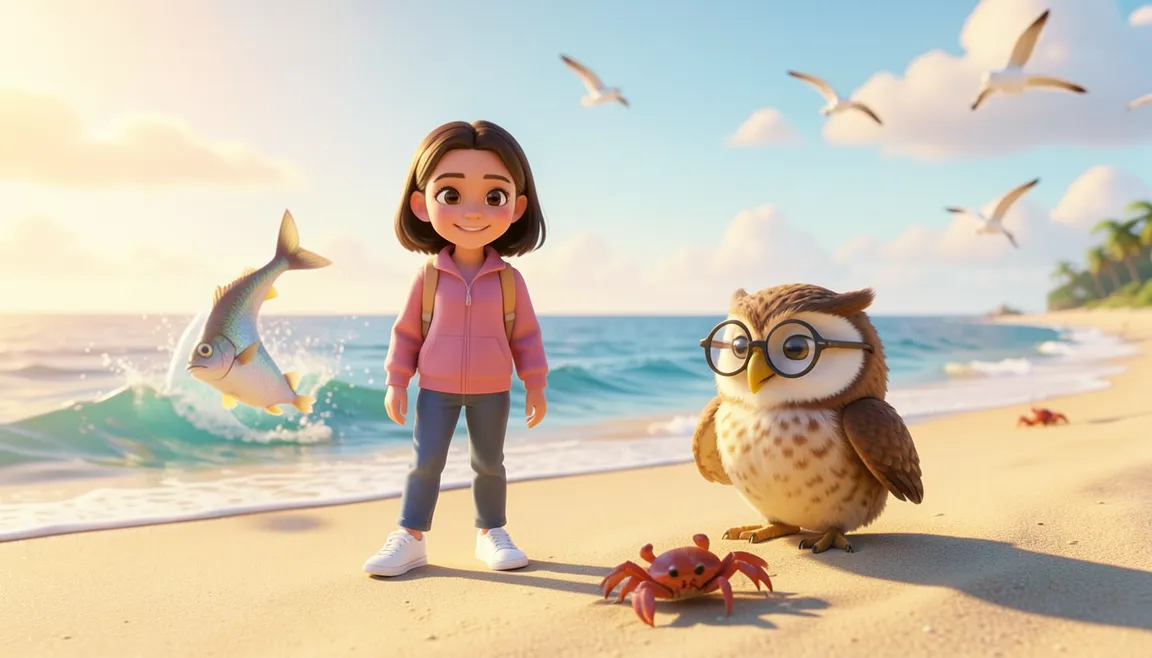
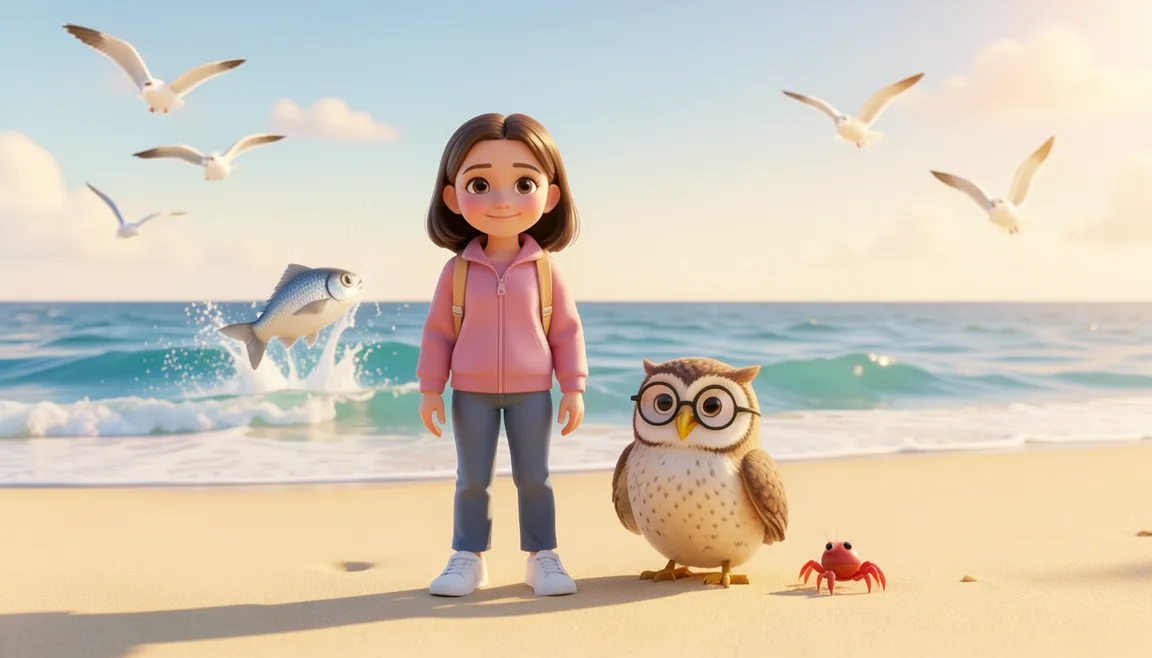
Dessins animés : film du souk raccourci, scènes du safari et de la plage refaites
Claude-Session: https://claude.ai/code/session_01Lr4SkBJnq1yRYGqqaX6PKr

diff --git a/version.js b/version.js
@@ -1,2 +1,2 @@
 // mis à jour par docs/outils/version.sh avant chaque commit
-window.SITE_VERSION = { v:'3.263', date:'20/11/2026' };
+window.SITE_VERSION = { v:'3.264', date:'20/11/2026' };

diff --git a/docs/journal.md b/docs/journal.md
@@ -180,3 +180,4 @@ Une ligne par réalisation, la plus ancienne en premier. Ajouter une ligne à ch
 - **20/11 (14 h)** : pour Salma, **Les Tables du Souk** (multiplication CE2 : rangées, tables de 2, 3, 4, 5, 10, l'ordre ne change rien, multiplier pour diviser avec « / ») et **My First English** (5 cours : Hello, The Colours, One two three, The Animals, My Family), chacun avec un dessin animé ComfyUI (Salma + Ollie) ; nouveau type de question **« repete »** dans le moteur des cours : Ollie dit le mot (Alice), Salma le répète au micro, la reconnaissance vocale de la tablette (en-GB) écoute avec indulgence (3 essais, puis on passe sans faute) ; code commun `salma/ollie/anglais.js`.
 - **20/11 (14 h 30)** : demande du papa « améliorer les tchats » : le bouton des messages est **toujours visible pour les enfants** (avant : seulement après un message reçu, donc Amine ne pouvait pas commencer) ; la liste montre **toute la famille** (Papa, Maman, Essil, Salma, Amine), en ligne (pastille verte) ou non (« lira plus tard ») ; nouvelle discussion **« Toute la famille »** (`a = 'Famille'`, réservée à la famille par `api/houma.php`) ; **phrases prêtes** (« Je t'aime ❤ », « Viens jouer avec moi ! 🎮 »…) lues à voix haute chez l'autre ; un **ding** à l'arrivée d'un message ; nouvelles toutes les 3 s quand le panneau est ouvert.
 - **20/11 (15 h 30)** : demande du papa « d'autres mondes en thème tunisien réaliste » : **Yajour** gagne 2 mondes (**Djerba, les potiers de Guellala** et **le fort de Tabarka**, 10 niveaux, tous gagnés par le robot, scores visés réglés sur lui) ; **le Jasmin (3)** passe à 27 mondes (**25 les temples de Sbeïtla, 26 la plage de Hammamet, 27 la kasbah du Kef**, placés avant le désert et le palais ; ce qui était ouvert le reste : `ORDER24`) ; **le Stage 2** passe à 23 mondes (**21 la médina de Sfax, 22 le cap de Mahdia, 23 les villas de Bulla Regia**, cartes vérifiées par `verifie.py`). Toutes les images en vrai faites avec ComfyUI (FLUX.2 klein) sur le PC du papa. Le Jasmin 2 n'a pas bougé.
+- **20/11 (14 h 45)** : les dessins animés des Tables du Souk et de My First English sont en ligne (17 films Wan 2.2 sur le PC du papa). Refaits : la scène du safari (le lion et l'éléphant étaient collés en un seul animal) et celle de la plage (un poisson marchait sur le sable) ; leurs nouveaux films (`nuit2v/e4_2c`, `e4_3c`) sont dans la file de ComfyUI ; en attendant, ces deux scènes sont des images fixes. Le film du souk est coupé à 2,6 s (Salma prenait les lunettes d'Ollie à la fin).
